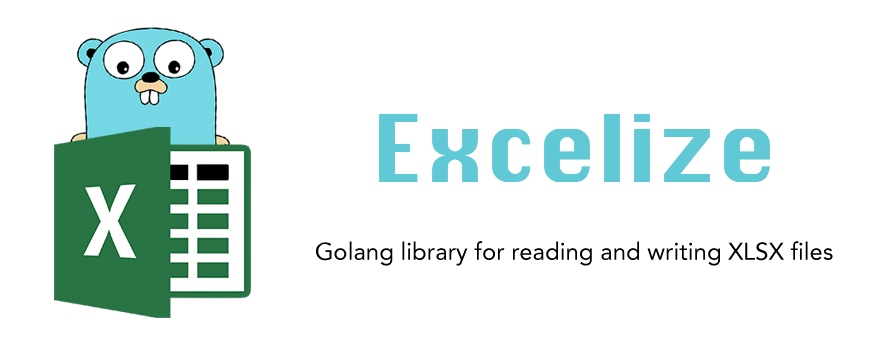
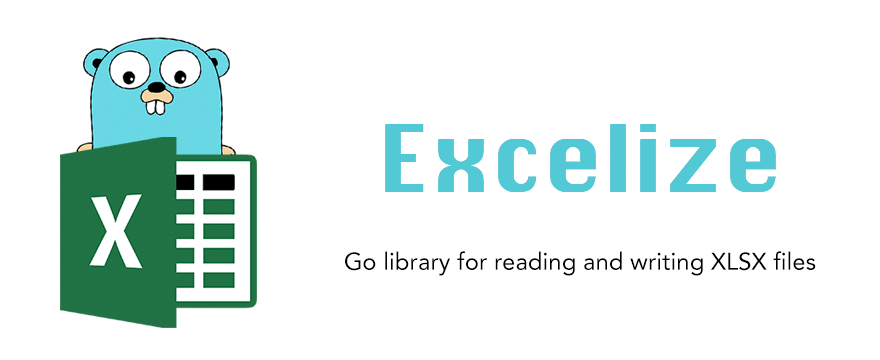
- Initialize shared formula types support, relate issue #227; - go test and godoc has been updated

Changed region(s): [[0.0614, 0.0611, 0.3068, 0.9167], [0.4295, 0.3056, 0.8898, 0.55], [0.3375, 0.6722, 0.9511, 0.7639]]

diff --git a/cell.go b/cell.go
@@ -9,6 +9,17 @@ import (
 	"time"
 )
 
+const (
+	// STCellFormulaTypeArray defined the formula is an array formula.
+	STCellFormulaTypeArray = "array"
+	// STCellFormulaTypeDataTable defined the formula is a data table formula.
+	STCellFormulaTypeDataTable = "dataTable"
+	// STCellFormulaTypeNormal defined the formula is a regular cell formula.
+	STCellFormulaTypeNormal = "normal"
+	// STCellFormulaTypeShared defined the formula is part of a shared formula.
+	STCellFormulaTypeShared = "shared"
+)
+
 // mergeCellsParser provides function to check merged cells in worksheet by
 // given axis.
 func (f *File) mergeCellsParser(xlsx *xlsxWorksheet, axis string) string {
@@ -224,10 +235,41 @@ func (f *File) GetCellFormula(sheet, axis string) string {
 		if xlsx.SheetData.Row[k].R == row {
 			for i := range xlsx.SheetData.Row[k].C {
 				if axis == xlsx.SheetData.Row[k].C[i].R {
+					if xlsx.SheetData.Row[k].C[i].F.T == STCellFormulaTypeShared {
+						return getSharedForumula(xlsx, xlsx.SheetData.Row[k].C[i].F.Si)
+					}
 					if xlsx.SheetData.Row[k].C[i].F != nil {
 						return xlsx.SheetData.Row[k].C[i].F.Content
 					}
 				}
+			}
+		}
+	}
+	return ""
+}
+
+// getSharedForumula find a cell contains the same formula as another cell,
+// the "shared" value can be used for the t attribute and the si attribute can
+// be used to refer to the cell containing the formula. Two formulas are
+// considered to be the same when their respective representations in
+// R1C1-reference notation, are the same.
+//
+// Note that this function not validate ref tag to check the cell if or not in
+// allow area, and always return origin shared formula.
+func getSharedForumula(xlsx *xlsxWorksheet, si string) string {
+	for k := range xlsx.SheetData.Row {
+		for i := range xlsx.SheetData.Row[k].C {
+			if xlsx.SheetData.Row[k].C[i].F == nil {
+				continue
+			}
+			if xlsx.SheetData.Row[k].C[i].F.T != STCellFormulaTypeShared {
+				continue
+			}
+			if xlsx.SheetData.Row[k].C[i].F.Si != si {
+				continue
+			}
+			if xlsx.SheetData.Row[k].C[i].F.Ref != "" {
+				return xlsx.SheetData.Row[k].C[i].F.Content
 			}
 		}
 	}

diff --git a/templates.go b/templates.go
@@ -12,7 +12,7 @@ var (
 	XMLHeaderByte = []byte(XMLHeader)
 )
 
-const templateDocpropsApp = `<Properties xmlns="http://schemas.openxmlformats.org/officeDocument/2006/extended-properties" xmlns:vt="http://schemas.openxmlformats.org/officeDocument/2006/docPropsVTypes"><TotalTime>0</TotalTime><Application>Golang Excelize</Application></Properties>`
+const templateDocpropsApp = `<Properties xmlns="http://schemas.openxmlformats.org/officeDocument/2006/extended-properties" xmlns:vt="http://schemas.openxmlformats.org/officeDocument/2006/docPropsVTypes"><TotalTime>0</TotalTime><Application>Go Excelize</Application></Properties>`
 
 const templateContentTypes = `<Types xmlns="http://schemas.openxmlformats.org/package/2006/content-types"><Override PartName="/xl/theme/theme1.xml" ContentType="application/vnd.openxmlformats-officedocument.theme+xml"/><Override PartName="/xl/styles.xml" ContentType="application/vnd.openxmlformats-officedocument.spreadsheetml.styles+xml"/><Default Extension="rels" ContentType="application/vnd.openxmlformats-package.relationships+xml"/><Default Extension="xml" ContentType="application/xml"/><Override PartName="/xl/workbook.xml" ContentType="application/vnd.openxmlformats-officedocument.spreadsheetml.sheet.main+xml"/><Override PartName="/docProps/app.xml" ContentType="application/vnd.openxmlformats-officedocument.extended-properties+xml"/><Override PartName="/xl/worksheets/sheet1.xml" ContentType="application/vnd.openxmlformats-officedocument.spreadsheetml.worksheet+xml"/><Override PartName="/docProps/core.xml" ContentType="application/vnd.openxmlformats-package.core-properties+xml"/></Types>`
 

diff --git a/excelize_test.go b/excelize_test.go
@@ -56,6 +56,10 @@ func TestOpenFile(t *testing.T) {
 	// Test get cell formula with illegal rows number.
 	xlsx.GetCellFormula("Sheet1", "B20")
 	xlsx.GetCellFormula("Sheet1", "B")
+	// Test get shared cell formula
+	xlsx.GetCellFormula("Sheet2", "H11")
+	xlsx.GetCellFormula("Sheet2", "I11")
+	getSharedForumula(&xlsxWorksheet{}, "")
 	// Test read cell value with given illegal rows number.
 	xlsx.GetCellValue("Sheet2", "a-1")
 	xlsx.GetCellValue("Sheet2", "A")

diff --git a/file.go b/file.go
@@ -72,7 +72,7 @@ func (f *File) Write(w io.Writer) error {
 		if err != nil {
 			return err
 		}
-		_, err = fi.Write([]byte(content))
+		_, err = fi.Write(content)
 		if err != nil {
 			return err
 		}

diff --git a/README.md b/README.md
@@ -11,7 +11,7 @@
 
 ## Introduction
 
-Excelize is a library written in pure Golang and providing a set of functions that allow you to write to and read from XLSX files. Support reads and writes XLSX file generated by Microsoft Excel™ 2007 and later. Support save file without losing original charts of XLSX. This library needs Go version 1.8 or later. The full API docs can be seen using go's built-in documentation tool, or online at [godoc.org](https://godoc.org/github.com/360EntSecGroup-Skylar/excelize) and [Chinese translation](https://xuri.me/excelize/zh_cn).
+Excelize is a library written in pure Go and providing a set of functions that allow you to write to and read from XLSX files. Support reads and writes XLSX file generated by Microsoft Excel™ 2007 and later. Support save file without losing original charts of XLSX. This library needs Go version 1.8 or later. The full API docs can be seen using go's built-in documentation tool, or online at [godoc.org](https://godoc.org/github.com/360EntSecGroup-Skylar/excelize) and [Chinese translation](https://xuri.me/excelize/zh_cn).
 
 ## Basic Usage
 
